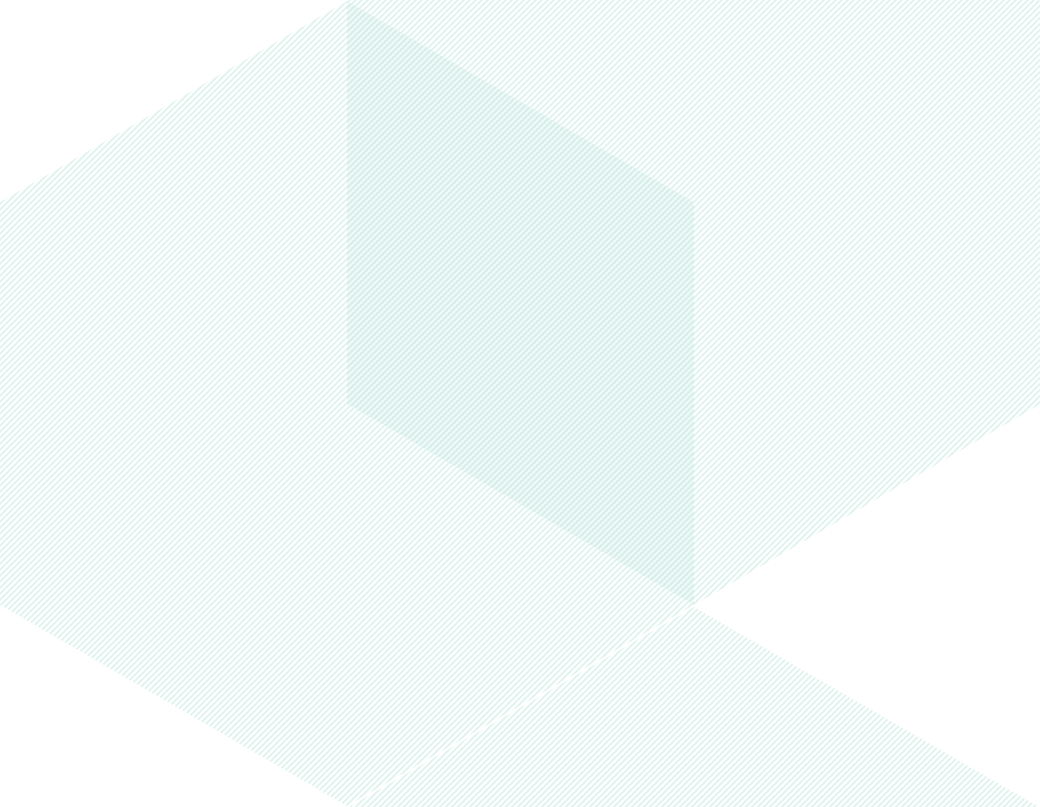
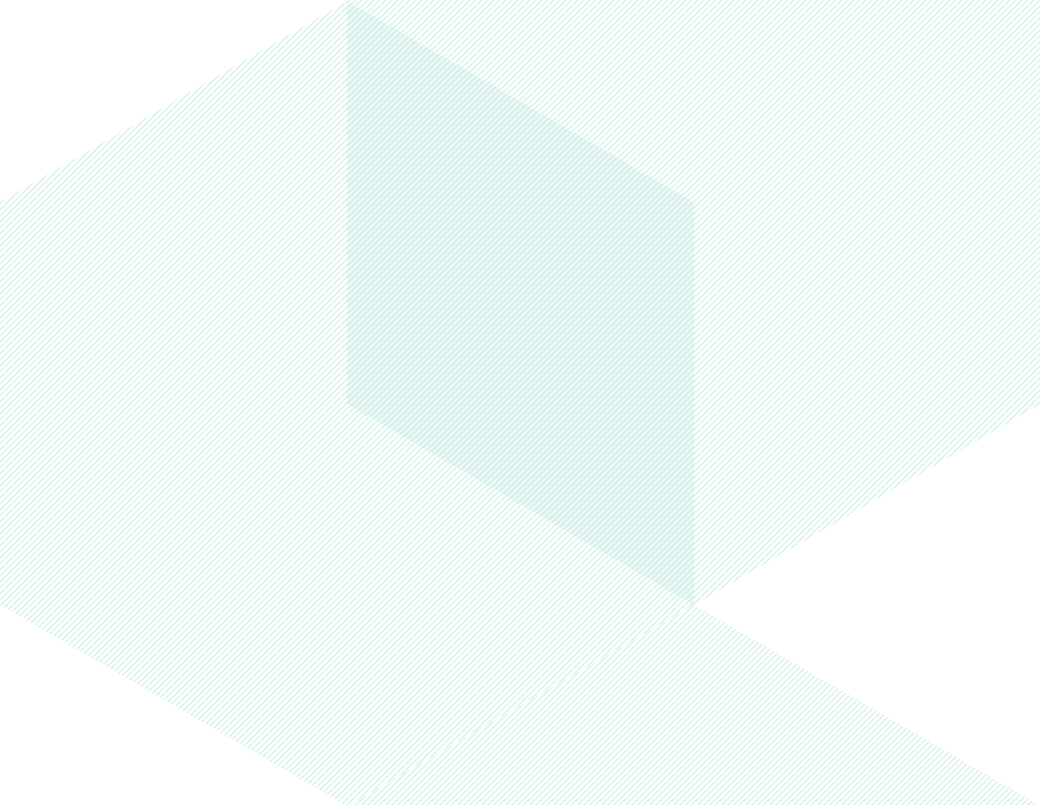
worked on design feedbacks

Changed region(s): [[0.1846, 0.8696, 0.4923, 1.0], [0.6462, 0.7143, 0.6769, 0.7453]]

diff --git a/src/scss/style.scss b/src/scss/style.scss
@@ -32,6 +32,7 @@ html{
 	font-family: $fontSansSerif;
 	font-size:$basefontSize * 1px;
 	line-height: 1.5;
+	height: 100%;
 	background: url("../img/misc/bg_01.png") repeat-y 50% 0;
 }
 
@@ -39,7 +40,28 @@ body{
 	margin:0;
 	padding:50px 0 0 0;
 	min-width: 1040px;
+	min-height: 100%;
+	position: relative;
+	background: url("../img/misc/bg_02.png") repeat-y 50% -300px;
+	// -webkit-animation: bgAnim 20s linear;
+	//    -moz-animation: bgAnim 20s linear;
+	//         animation: bgAnim 20s linear;
+	// -webkit-animation-iteration-count: infinite;
+	//         animation-iteration-count: infinite;
 }
+
+// @-webkit-keyframes bgAnim {
+// 	from { background-position:50% 0; }
+// 	to   { background-position:50% -807px; }
+// }
+// @-moz-keyframes bgAnim {
+// 	from { background-position:50% 0; }
+// 	to   { background-position:50% -807px; }
+// }
+// @keyframes bgAnim {
+// 	from { background-position:50% 0; }
+// 	to   { background-position:50% -807px; }
+// }
 
 a{
 	color: $color2;
@@ -184,8 +206,9 @@ li{
 		        transition: color .2s;
 	}
 	li.mod-nav--current{
+		font-weight: bold;
 		a{
-			color: #ffff00;
+			color: #12806a;
 			background-position: -400px 50%;
 		}
 	}
@@ -236,6 +259,7 @@ li{
 	padding: 10px 5px;
 	margin: 20px 0;
 	background: #FFF;
+	background: rgba( 255, 255, 255, .8 );
 	iframe{
 		display: block;
 	}
@@ -678,28 +702,10 @@ a:hover .mod-icon--slide{background-position: -30px -20px;}
 	right: 0;
 	position: absolute;
 	background: url("../img/misc/bg_02.png") repeat-y 50% -300px;
-	-webkit-animation: bgAnim 20s linear;
-	   -moz-animation: bgAnim 20s linear;
-	        animation: bgAnim 20s linear;
-	-webkit-animation-iteration-count: infinite;
-	        animation-iteration-count: infinite;
 	canvas{
 		top:0;
 		left: 0;
 		position: fixed;
 		display: block;
 	}
-}
-
-@-webkit-keyframes bgAnim {
-	from { background-position:50% 0; }
-	to   { background-position:50% -807px; }
-}
-@-moz-keyframes bgAnim {
-	from { background-position:50% 0; }
-	to   { background-position:50% -807px; }
-}
-@keyframes bgAnim {
-	from { background-position:50% 0; }
-	to   { background-position:50% -807px; }
 }

diff --git a/src/static/assets/js/src/util.js b/src/static/assets/js/src/util.js
@@ -26,7 +26,8 @@
           $navItems.each( function () {
             var $navItem = $( this );
             var href = $navItem.find( 'a' ).attr( 'href' );
-            if ( new RegExp( href ).test( document.URL ) ){
+            var url = document.URL;
+            if ( new RegExp( href ).test( url ) || isHome ){
               $navItem.addClass( 'mod-nav--current' );
             } else {
               $navItem.removeClass( 'mod-nav--current' );
